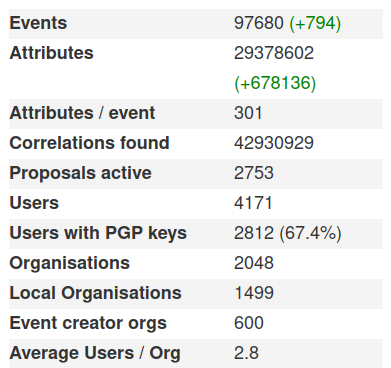
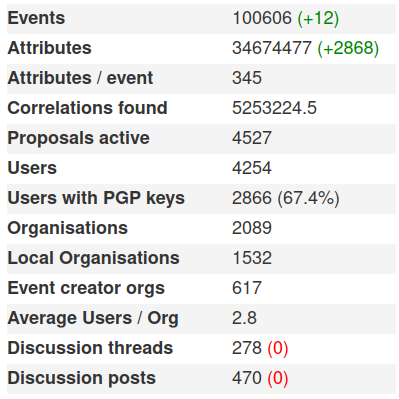
chg: [firstcti2022] Updated pictures and added section

diff --git a/firstcti2022/content.tex b/firstcti2022/content.tex
@@ -49,11 +49,7 @@
     \end{itemize}
 \end{frame}
 
-\begin{frame}
-\frametitle{Let us take a step back and look at a use-case}
-\end{frame}
-
-
+\section{Let us take a step back and look at a use-case}
 \begin{frame}
 \frametitle{Some stats about one of our MISP instance: MISPPriv (1)}
     \includegraphics[width=0.45\linewidth]{pictures/misppriv-usage.png}
@@ -63,7 +59,7 @@
 \begin{frame}
     \frametitle{Some stats about one of our MISP instance: MISPPriv (2)}
     \begin{center}
-        \includegraphics[width=1.1\linewidth]{pictures/bokeh_new_org.png}
+        \includegraphics[width=1.0\linewidth]{pictures/bokeh_new_org.png}
     \end{center}
 \end{frame}
 
@@ -105,42 +101,18 @@
 
 \begin{frame}
 \frametitle{Issues we're trying to solve with Cerebrate}
-    \begin{minipage}{0.8\textwidth}
+    \begin{itemize}
+        \item Constituencies of organisations
         \begin{itemize}
-            \item Constituencies of organisations
-            \begin{itemize}
-                \item Geographic \& sectorial
-                \item But also technical: CIDR blocks \& AS Numbers
-            \end{itemize}
-            \item Cryptographic key lookup for information signing
-            \begin{itemize}
-                \item MISP's protected event feature
-            \end{itemize}
+            \item Geographic \& sectorial
+            \item But also technical: CIDR blocks \& AS Numbers
         \end{itemize}
-    \end{minipage}
-    \begin{minipage}{0.19\textwidth}
-        % \includegraphics[width=0.8\linewidth]{pictures/clippy-hint.png}
-    \end{minipage}
-\end{frame}
-
-\begin{frame}
-\frametitle{Issues we're trying to solve with Cerebrate}
-    \begin{minipage}{0.8\textwidth}
+        \item Cryptographic key lookup for information signing
         \begin{itemize}
-            \item Constituencies of organisations
-            \begin{itemize}
-                \item Geographic \& sectorial
-                \item But also technical: CIDR blocks \& AS Numbers
-            \end{itemize}
-            \item Cryptographic key lookup for information signing
-            \begin{itemize}
-                \item MISP's protected event feature
-            \end{itemize}
+            \item MISP's protected event feature
+            \item Future: Protected Sharing groups? 
         \end{itemize}
-    \end{minipage}
-    \begin{minipage}{0.19\textwidth}
-        \includegraphics[width=0.8\linewidth]{pictures/clippy-hint.png}
-    \end{minipage}
+    \end{itemize}
 \end{frame}
 
 \begin{frame}
@@ -298,7 +270,7 @@
         \item Cerebrate can act as a trusted contact database containing cryptographic keys (PGP, S/MIME)
         \item Which can be used by other applications to sign and validate information
         \begin{itemize}
-            \item See MISP's protected Event feature \includegraphics[width=0.09\linewidth]{pictures/clippy-solo.png}
+            \item See MISP's protected Event feature
         \end{itemize}
     \end{itemize}
 \end{frame}
@@ -334,14 +306,14 @@ Basically the same strategy as the one used in MISP:
 \end{frame}
 
 \begin{frame}
-\frametitle{Data sharing}
+\frametitle{Data sharing - Connected Cerebrate instances}
     \begin{center}
         \includegraphics[width=0.95\linewidth]{pictures/brood-index.png}
     \end{center}
 \end{frame}
 
 \begin{frame}
-\frametitle{Data sharing}
+\frametitle{Data sharing - Browsing a remote Cerebrate instance}
     \begin{center}
         \includegraphics[width=0.95\linewidth]{pictures/brood-view.png}
     \end{center}
